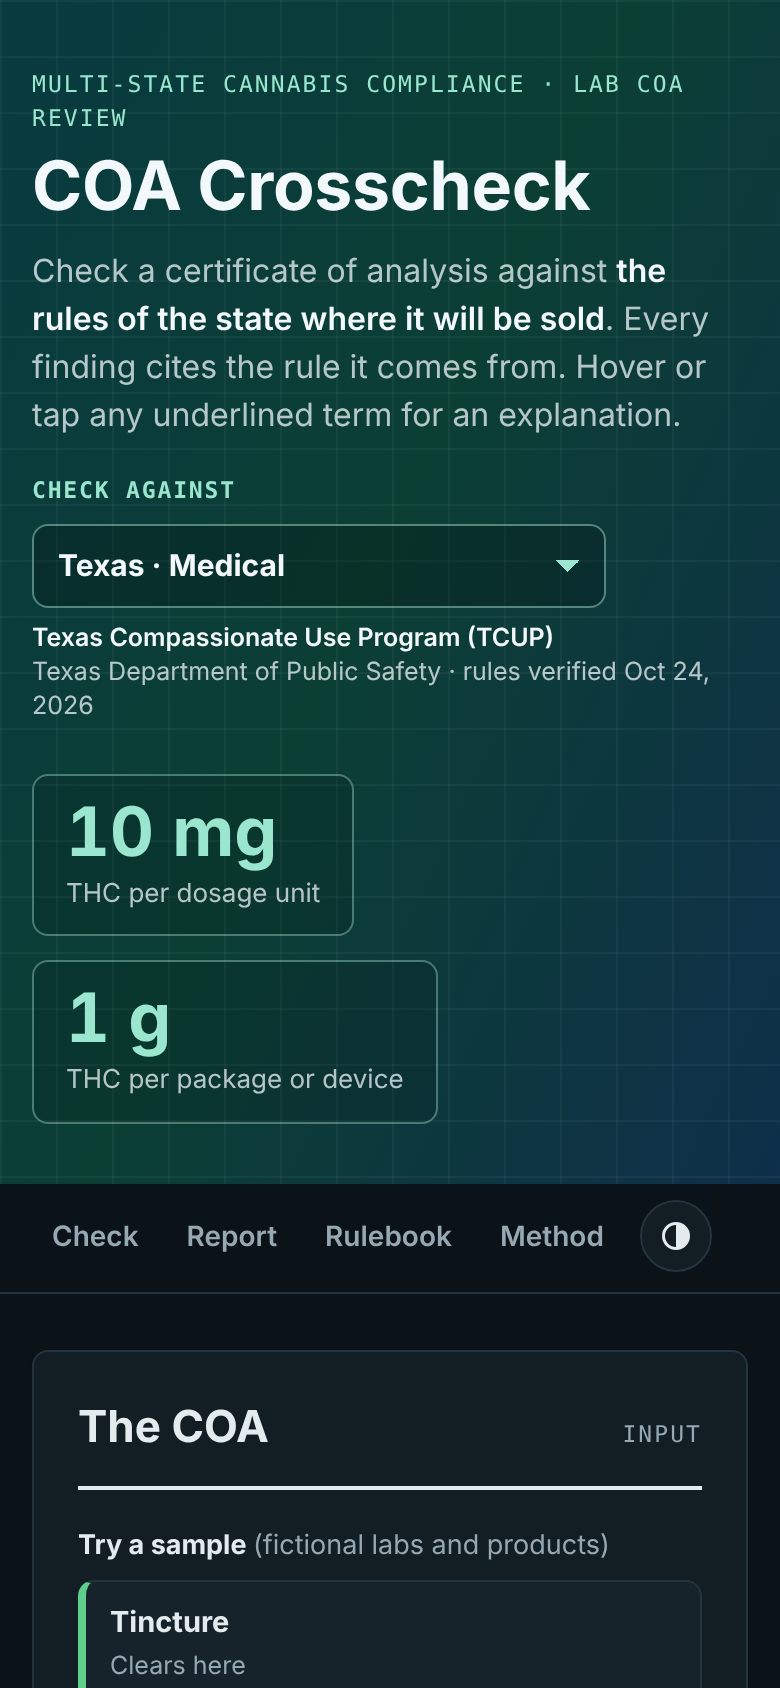
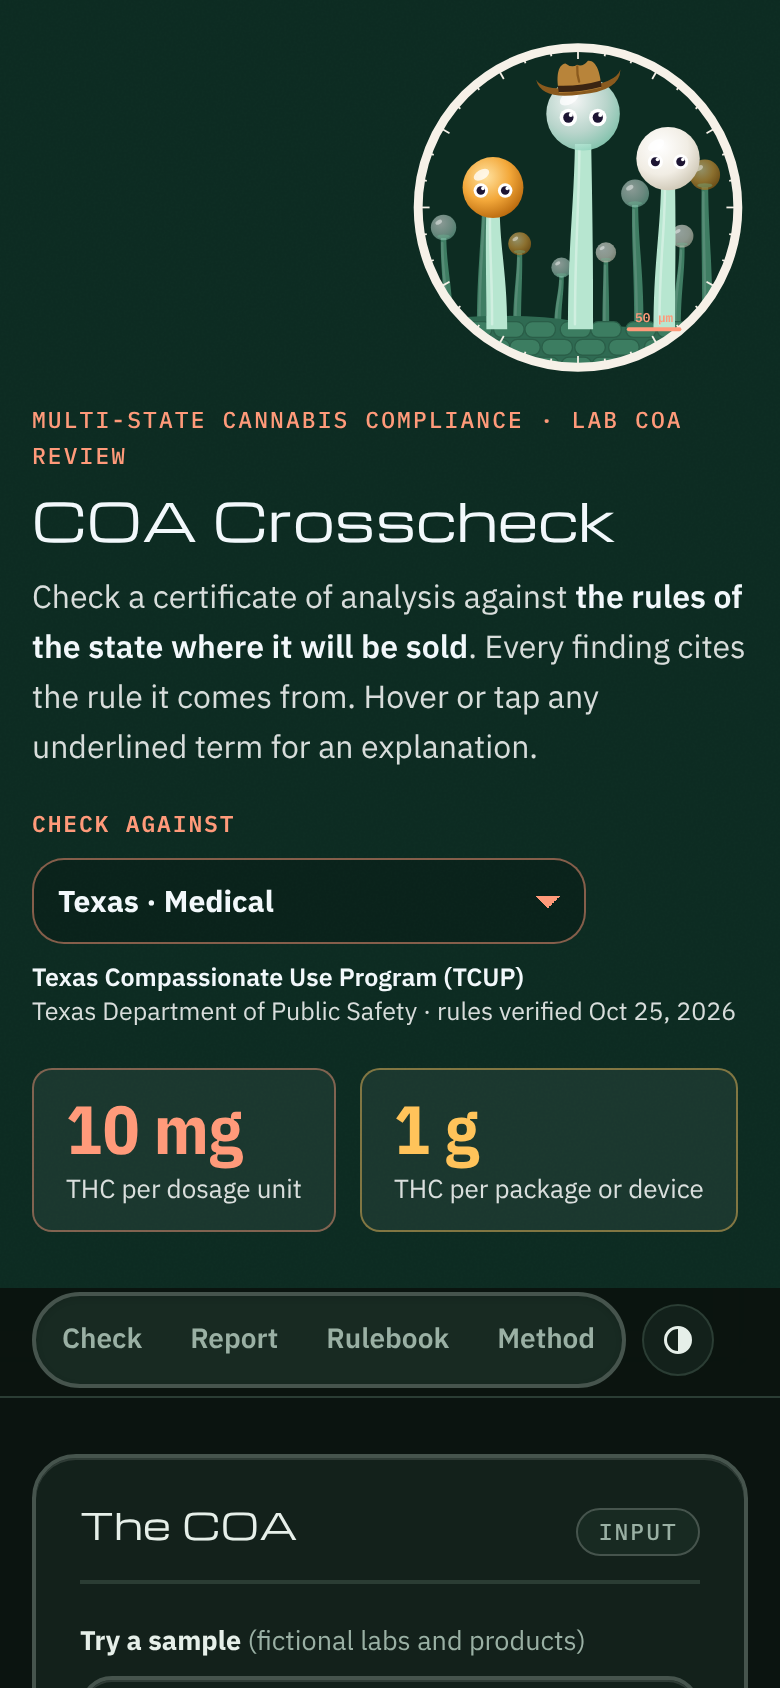
Add federal hemp fedora, new Review eyelids, refreshed screenshots
Claude-Session: https://claude.ai/code/session_015yPtfQqF6qhWv7vaAJmnzU

diff --git a/src/header-art.js b/src/header-art.js
@@ -1,7 +1,8 @@
 /* Header art: three trichomes (clear, milky, amber) that watch the pointer, blink, and react to the verdict.
    Decorative only: hidden from screen readers, no focus stops, and no idle motion when the visitor
    prefers reduced motion. Exposes window.HeaderArt.mood("clear" | "review" | "hold" | "idle")
-   and window.HeaderArt.hat(true | false), which puts a cowboy hat on the tall clear trichome for Texas. */
+   and window.HeaderArt.hat("cowboy" | "fedora" | false), which puts a hat on the tall clear trichome:
+   a cowboy hat for Texas, an old-school black government fedora for federal hemp. hat(true) means "cowboy". */
 (function () {
   "use strict";
   const root = document.getElementById("crew");
@@ -59,6 +60,33 @@
   }
   blinkSoon();
 
+  /* ---------- eyelids for the Review squint ---------- */
+  // each eye gets a lid line and a clip that hides the eye above it, so the lid looks like it slid down
+  const NS_ = "http://www.w3.org/2000/svg";
+  const defs = svg.querySelector("defs") || svg.insertBefore(document.createElementNS(NS_, "defs"), svg.firstChild);
+  const lids = [...root.querySelectorAll(".tri.fg .eye")].map((g, i) => {
+    const sc = g.querySelector(".sclera"), x = +sc.getAttribute("cx"), y = +sc.getAttribute("cy"), r = +sc.getAttribute("r");
+    const side = g.classList.contains("l") ? 1 : -1;     // +1: left eye, its inner corner is on the right
+    const clip = document.createElementNS(NS_, "clipPath"), shape = document.createElementNS(NS_, "path");
+    clip.id = "lidclip-" + i; clip.append(shape); defs.append(clip);
+    g.querySelector(".open").setAttribute("clip-path", `url(#${clip.id})`);
+    const line = document.createElementNS(NS_, "path");
+    line.setAttribute("class", "lid"); line.setAttribute("stroke-width", (r * 0.42).toFixed(2)); g.append(line);
+    return { x, y, r, side, shape, line };
+  });
+  function setLids(down) {
+    for (const l of lids) {
+      const { x, y, r, side } = l, w = r * 1.05;
+      if (!down) { l.shape.setAttribute("d", `M${x - w * 2} ${y - w * 2}h${w * 4}v${w * 4}h${-w * 4}Z`); l.line.removeAttribute("d"); continue; }
+      // the lid sits a little above centre and slopes down toward the nose: a narrow, skeptical look
+      const yo = y - r * 0.32 - side * r * 0.16, yi = y - r * 0.32 + side * r * 0.16;
+      const x1 = x - w, x2 = x + w, y1 = side > 0 ? yo : yi, y2 = side > 0 ? yi : yo;
+      const sag = `Q${x} ${((y1 + y2) / 2 + r * 0.1).toFixed(2)} ${x2} ${y2.toFixed(2)}`;
+      l.shape.setAttribute("d", `M${x1} ${y1.toFixed(2)} ${sag} V${y + r * 2} H${x1} Z`);
+      l.line.setAttribute("d", `M${x1} ${y1.toFixed(2)} ${sag}`);
+    }
+  }
+
   /* ---------- mood follows the verdict ---------- */
   // mouths are drawn relative to each trichome's own size
   const MOUTH = {
@@ -70,6 +98,7 @@
   function mood(m) {
     if (!MOUTH[m]) m = "idle";
     root.dataset.mood = m;
+    setLids(m === "review");
     for (const t of tris) {
       const x = +t.dataset.mx, y = +t.dataset.my, r = +t.dataset.r;
       t.querySelector(".mouth")?.setAttribute("d", MOUTH[m](x, y, r));   // eyes-only art has no mouth
@@ -77,40 +106,56 @@
     if (m !== "idle" && !reduce.matches) { root.classList.remove("react"); void root.getBoundingClientRect(); root.classList.add("react"); }
   }
 
-  /* ---------- a cowboy hat for Texas ---------- */
+  /* ---------- hats: a cowboy hat for Texas, a government fedora for federal hemp ---------- */
+  // each hat is drawn on the same 64-unit grid as the favicon: [path, fill, stroke]
+  const HATS = {
+    cowboy: { tilt: -7, parts: [
+      ["M2 14 Q4 29 32 28 Q60 29 62 14 Q58 23 32 23 Q6 23 2 14 Z", "#8a5a1e"],
+      ["M17 25 C16 15 18 5 24 5 Q28 9 32 7 Q36 9 40 5 C46 5 48 15 47 25 Q32 27 17 25 Z", "#b8843a"],
+      ["M32 8 Q31 14 32 19", "none", "#8a5a1e"],
+      ["M16.6 20 Q32 22.5 47.4 20 L47.2 24.4 Q32 26.6 16.8 24.4 Z", "#3b2412"],
+    ] },
+    // charcoal rather than pure black, with a grey edge, so it still reads on the dark green band
+    fedora: { tilt: -4, parts: [
+      ["M5 23 Q7 29.5 32 28.5 Q57 29.5 59 23 Q55 26 32 26 Q9 26 5 23 Z", "#24272b", "#6b737c"],
+      ["M15.5 24 C14.5 15 17 7.5 24 6.5 Q28 9.5 32 8.5 Q36 9.5 40 6.5 C47 7.5 49.5 15 48.5 24 Q32 26 15.5 24 Z", "#2e3237", "#6b737c"],
+      ["M32 9.5 Q30.8 14 32 18.5", "none", "#14161a"],
+      ["M15.3 19.5 Q32 22 48.7 19.5 L48.6 23.6 Q32 26 15.4 23.6 Z", "#101214"],
+      ["M44 20.6 L46.6 20.3 L46.6 23.4 L44 23.7 Z", "#4a5059"],
+    ] },
+  };
   // drawn to fit the trichome's own size; fills are set here so no stylesheet is needed
   const NS = "http://www.w3.org/2000/svg";
-  function drawHat(t) {
+  function drawHat(t, kind) {
     // the trichome says where its hat goes: centre x, a point near the top of the head, and the head's size
     const x = +t.dataset.hx, cy = +t.dataset.hy, r = +t.dataset.hr;
     const u = r / 26, y = cy - r * 0.84;               // u: one unit of the 64-unit favicon drawing
     const P = (d) => d.replace(/(-?\d+(?:\.\d+)?) (-?\d+(?:\.\d+)?)/g, (m, a, b) => `${(x + (+a - 32) * u).toFixed(1)} ${(y + (+b - 20) * u).toFixed(1)}`);
     const outer = document.createElementNS(NS, "g"), g = document.createElementNS(NS, "g");
-    outer.setAttribute("class", "hat"); outer.append(g);   // outer moves when it drops on, inner holds the tilt
-    for (const [d, fill, stroke] of [
-      ["M2 14 Q4 29 32 28 Q60 29 62 14 Q58 23 32 23 Q6 23 2 14 Z", "#8a5a1e"],
-      ["M17 25 C16 15 18 5 24 5 Q28 9 32 7 Q36 9 40 5 C46 5 48 15 47 25 Q32 27 17 25 Z", "#b8843a"],
-      ["M32 8 Q31 14 32 19", "none", "#8a5a1e"],
-      ["M16.6 20 Q32 22.5 47.4 20 L47.2 24.4 Q32 26.6 16.8 24.4 Z", "#3b2412"],
-    ]) {
+    outer.setAttribute("class", "hat"); outer.dataset.kind = kind; outer.append(g);   // outer moves when it drops on, inner holds the tilt
+    for (const [d, fill, stroke] of HATS[kind].parts) {
       const path = document.createElementNS(NS, "path");
       path.setAttribute("d", P(d)); path.setAttribute("fill", fill);
-      if (stroke) { path.setAttribute("stroke", stroke); path.setAttribute("stroke-width", (1.6 * u).toFixed(1)); path.setAttribute("stroke-linecap", "round"); }
+      if (stroke) { path.setAttribute("stroke", stroke); path.setAttribute("stroke-width", ((fill === "none" ? 1.6 : 0.9) * u).toFixed(1)); path.setAttribute("stroke-linecap", "round"); path.setAttribute("stroke-linejoin", "round"); }
       g.append(path);
     }
-    g.setAttribute("transform", `rotate(-7 ${x} ${cy})`);   // tipped back a little
+    g.setAttribute("transform", `rotate(${HATS[kind].tilt} ${x} ${cy})`);   // tipped a little
     return outer;
   }
-  function hat(on) {
+  function hat(kind) {
+    if (kind === true) kind = "cowboy";
+    if (!HATS[kind]) kind = false;
+    if (kind) root.dataset.hat = kind; else delete root.dataset.hat;
     const t = root.querySelector(".tri.fg.clear") || root.querySelector(".tri.clear");
     if (!t) return;
     const head = t.querySelector(".head");
     let h = head.querySelector(".hat");
-    if (on && !h) {
-      h = drawHat(t); head.append(h);
+    if (h && h.dataset.kind !== kind) { h.remove(); h = null; }   // switching straight from one hat to another
+    if (kind && !h) {
+      h = drawHat(t, kind); head.append(h);
       if (!reduce.matches && h.animate) h.animate([{ transform: "translateY(-40px)", opacity: 0 }, { transform: "translateY(3px)", opacity: 1, offset: .75 }, { transform: "none", opacity: 1 }],
         { duration: 420, easing: "ease-out" });
-    } else if (!on && h) {
+    } else if (!kind && h) {
       if (!reduce.matches && h.animate) h.animate([{ transform: "none", opacity: 1 }, { transform: "translateY(-30px)", opacity: 0 }], { duration: 220, easing: "ease-in" }).onfinish = () => h.remove();
       else h.remove();
     }

diff --git a/src/app.js b/src/app.js
@@ -87,7 +87,8 @@
     $("limits").innerHTML = rs.headline.map(h => `<div class="limit"><b>${esc(h.big)}</b><span>${esc(h.small)}</span></div>`).join("");
     $("rbProgram").textContent = rs.program;
     $("navRule").textContent = rs.state === "Federal hemp" ? "Federal hemp" : `${rs.state} · ${rs.market}`;
-    window.HeaderArt?.hat(rs.stateCode === "TX");      // the tall trichome wears a cowboy hat for Texas
+    // the tall trichome wears a cowboy hat for Texas and a black government fedora for federal hemp
+    window.HeaderArt?.hat(rs.stateCode === "TX" ? "cowboy" : rs.stateCode === "US" ? "fedora" : false);
     $("rbMeta").textContent = `${rs.regulator} · rules verified ${new Date(rs.verified + "T12:00:00").toLocaleDateString("en-US", { month: "short", day: "numeric", year: "numeric" })}`;
     // sample tones follow the selected rules
     for (const b of sWrap.children) {

diff --git a/src/styles.css b/src/styles.css
@@ -424,7 +424,9 @@ details.share .inner { gap: 14px; }
 /* moods follow the verdict, told with the eyes only */
 .band-art[data-mood="clear"] .open { opacity: 0; }
 .band-art[data-mood="clear"] .happy { opacity: 1; }
-.band-art[data-mood="review"] .eye.r { transform: scaleY(.55); }
+/* review: heavy, suspicious lids. header-art.js lowers a lid line and clips the eye under it */
+.crew .lid { fill: none; stroke: #1d1533; stroke-linecap: round; opacity: 0; }
+.band-art[data-mood="review"] .lid { opacity: 1; }
 .band-art[data-mood="hold"] .eye { transform: scale(1.08); }
 .band-art[data-mood="hold"] .dot { transform: scale(.8); }
 .band-art.react .fg .head { animation: crew-hop .45s cubic-bezier(.3,1.6,.5,1); }

diff --git a/README.md b/README.md
@@ -4,7 +4,7 @@
 
 A browser tool that checks a cannabis lab **certificate of analysis (COA)** against the rules of the state where the product will be sold. Pick a rulebook, paste or upload a COA, and get a verdict where every finding cites the rule it comes from. Hover or tap any underlined term for a plain-language explanation.
 
-![COA Crosscheck checking a vape cartridge against California adult-use rules](docs/screenshot-desktop.png)
+![COA Crosscheck holding a live resin badder concentrate under Missouri rules, with one failure, one item to review, and eight passes](docs/screenshot-desktop.png)
 
 ## Rulebooks
 
@@ -41,7 +41,7 @@ After a check, **Show these lab results on a product page** makes a card for sho
 
 The compliance verdict appears on the card only if the seller confirms they checked the values against the COA. See [docs/SHARING.md](docs/SHARING.md).
 
-<img src="docs/card-mobile.png" alt="The lab-results card on a phone" width="280">
+<img src="docs/card-mobile.png" alt="The shopper lab-results card for a Colorado gummy on a phone, showing potency per piece and the passed safety tests" width="280">
 
 ## How it works
 
@@ -79,9 +79,11 @@ When a COA is still misread, the self-checks flag it and every field can be corr
 
 ## Design
 
-The interface follows the 2026 trends that suit a professional tool ([Figma](https://www.figma.com/resource-library/web-design-trends/), [Envato](https://elements.envato.com/learn/web-design-trends), [We.inc](https://we.inc/blog/website-design-trends-2026)) and skips the decorative ones (3D, maximalism, retrofuturism):
+The interface follows the 2026 trends that suit a professional tool ([Figma](https://www.figma.com/resource-library/web-design-trends/), [Envato](https://elements.envato.com/learn/web-design-trends), [We.inc](https://we.inc/blog/website-design-trends-2026)) and skips the purely decorative ones (3D, maximalism):
 
-- **A playful header for a tedious job:** a microscope view of trichomes on the leaf surface, with smooth stalks and glossy resin heads in the clear, milky, and amber colors growers watch for, on a flat, film-grain forest green (no gradient). The three tallest have eyes that follow the cursor with their eyes, blink, and react to each verdict with their eyes (happy for Clear, a squint for Review, wide for Hold). They're decorative and hidden from screen readers, and they stay still for people who prefer reduced motion.
+- **A playful header for a tedious job:** a microscope view of trichomes on the leaf surface, with smooth stalks and glossy resin heads in the clear, milky, and amber colors growers watch for, on a flat, film-grain forest green (no gradient). The three tallest have eyes that follow the cursor, blink, and react to each verdict (happy for Clear, heavy skeptical eyelids for Review, wide for Hold). Pick a Texas rulebook and the tallest one puts on a cowboy hat; pick federal hemp and it wears an old-school black government fedora. They're decorative and hidden from screen readers, and they stay still for people who prefer reduced motion.
+<img src="docs/crew.gif" alt="The trichome header: eyes follow the cursor, smile for a Clear verdict, widen for a Hold, and a cowboy hat drops on for Texas" width="300">
+
 - **Color-coded test categories:** each kind of test (cannabinoids, solvents, pesticides, microbials, metals, and more) has its own hue and a larger, bolder heading, so a long COA is quicker to scan. Every hue passes WCAG AA contrast in both themes.
 - **Retrofuturist instrument panel:** below the microscope header, the page is styled like a mid-century lab instrument: enamel panels with chrome trim, capsule buttons that press in, THC results on dark phosphor readout screens, and indicator lamps beside each finding. The period display face (Michroma) is kept to short titles; everything people read stays in IBM Plex Sans. The skin lives in `src/retro.css`, separate from the base styles.
 - **Accessibility as a baseline:** passes an automated WCAG 2.2 AA audit (axe-core) in light and dark themes, with a skip link, visible focus, keyboard-reachable tooltips, and 24 px minimum tap targets.
@@ -126,7 +128,7 @@ python3 -m http.server 8000   # then open http://localhost:8000
 npm test                      # Node 18+, no dependencies
 ```
 
-<img src="docs/screenshot-mobile.png" alt="The rulebook picker on a phone in dark mode" width="280">
+<img src="docs/screenshot-mobile.png" alt="COA Crosscheck on a phone in dark mode with the Texas rulebook selected; the tallest trichome wears a cowboy hat" width="280">
 
 ## Disclaimer
 
